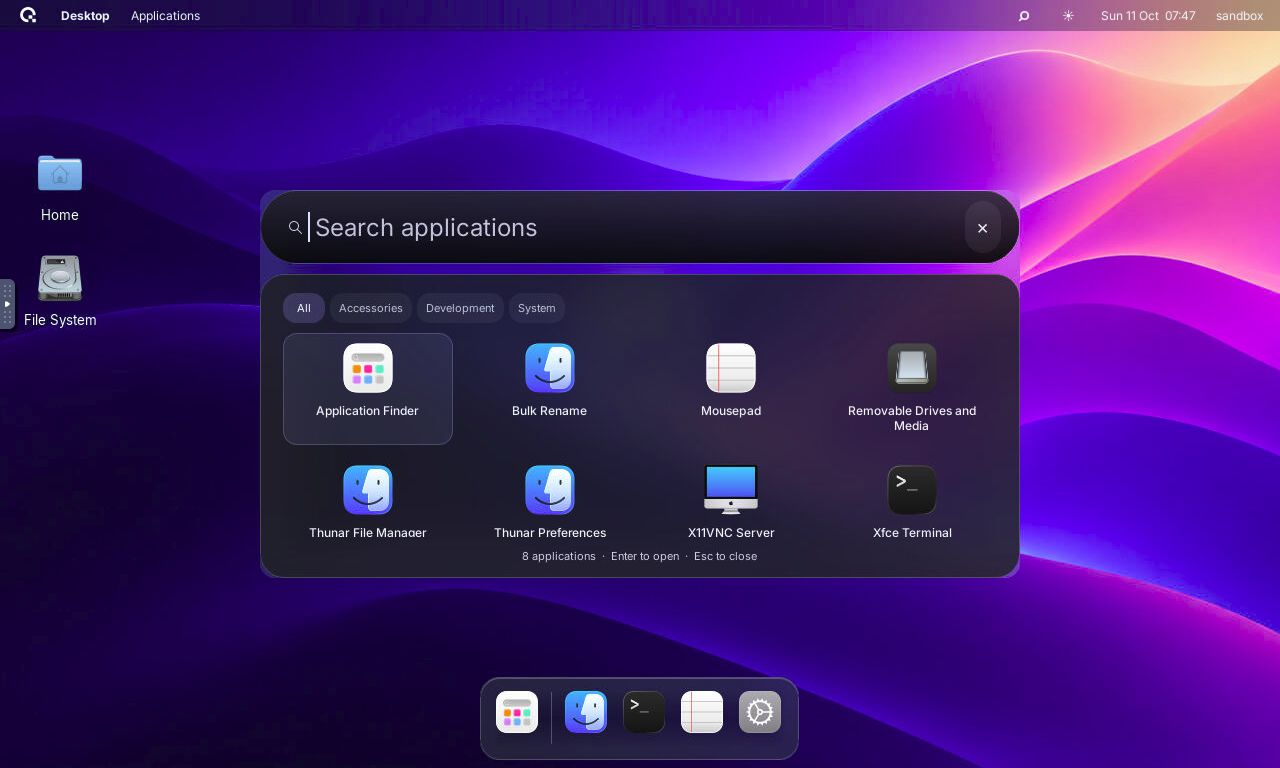
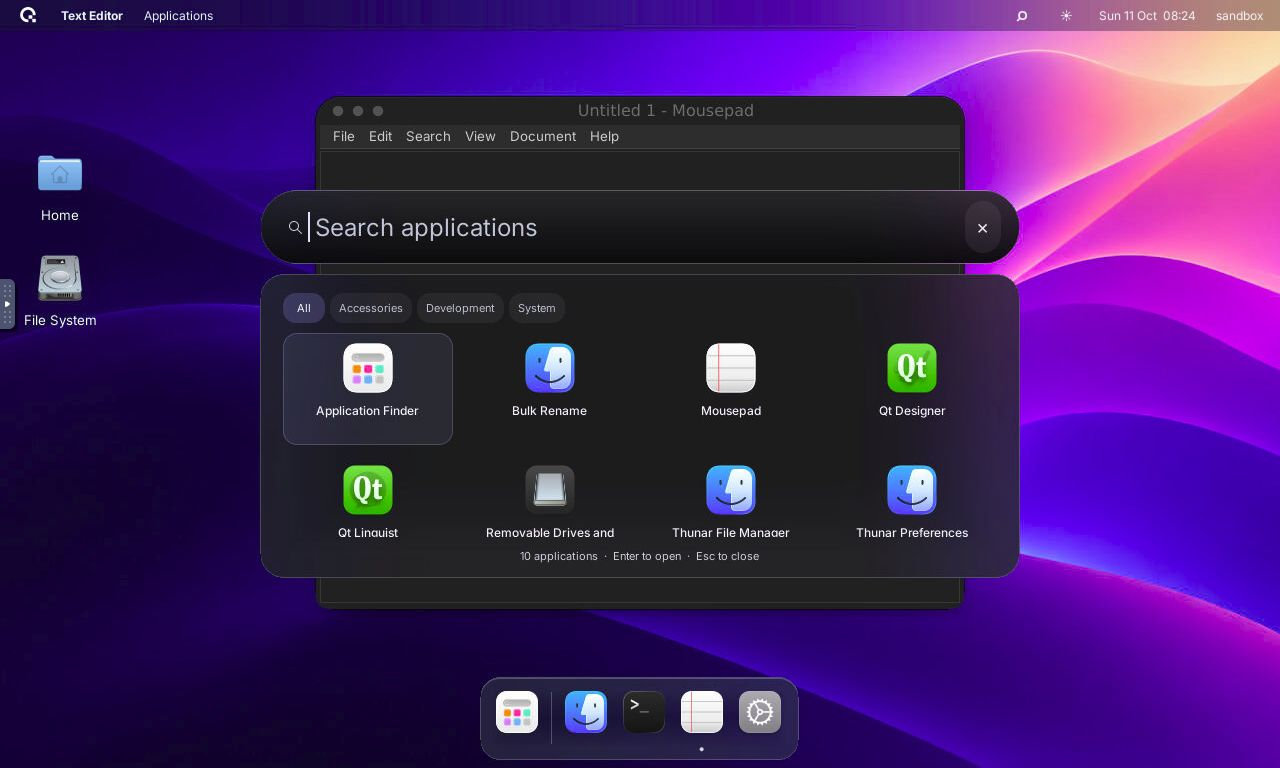
Round native windows and scope GTK glass to visible menu content

diff --git a/docs/visual-comparison.html b/docs/visual-comparison.html
@@ -5,7 +5,7 @@ body{margin:0;padding:32px;background:#151517;color:#eee;font:16px system-ui,san
 </style><main>
 <h1>vAntah alongside macOS 27</h1><p>Official Apple screenshots on the left; the running Linux implementation on the right. Apple artwork loads from its original URL. Comparisons use different applications and wallpaper, so this is a visual review, not a pixel-diff score or an exact-match certification.</p>
 <h2>Search and launcher</h2><div class="pair"><figure><img src="https://www.apple.com/v/os/g/images/macos/highlights/siri__mfeve50fboii_large.jpg" alt="Apple macOS 27 screenshot showing a dark Siri search capsule"><figcaption><a href="https://www.apple.com/os/macos/">Apple macOS 27 search reference</a><small>Dark capsule, prominent text, restrained outer edge.</small></figcaption></figure><figure><img src="screenshots/kwin-glass.jpg" alt="Updated vAntah application launcher and dock"><figcaption>vAntah after adjustment<small>Larger search text, darker gradient, larger icons and wrapped app names. Local app results remain a separate grid.</small></figcaption></figure></div>
-<h2>Dock and windows</h2><div class="pair"><figure><img src="https://images.apple.com/v/os/g/images/macos/siri/siri_app__bf82k75xd8z6_large.jpg" alt="Apple macOS 27 Siri app with traffic-light controls and dock"><figcaption>Apple desktop reference<small>Compact controls, rounded windows and a low translucent dock.</small></figcaption></figure><figure><img src="screenshots/window-light-matched.jpg" alt="vAntah window showing the revised traffic-light controls and dock"><figcaption>vAntah native GTK window<small>28px title strip, 12px control targets, neutral dock material and reduced rim refraction. GTK retains its application menus and client layout.</small></figcaption></figure></div>
+<h2>Dock and windows</h2><div class="pair"><figure><img src="https://images.apple.com/v/os/g/images/macos/siri/siri_app__bf82k75xd8z6_large.jpg" alt="Apple macOS 27 Siri app with traffic-light controls and dock"><figcaption>Apple desktop reference<small>Compact controls, rounded windows and a low translucent dock.</small></figcaption></figure><figure><img src="screenshots/window-light-matched.jpg" alt="vAntah window showing the revised traffic-light controls and dock"><figcaption>vAntah native GTK window<small>28px title strip, 12px control targets, neutral dock material and reduced rim refraction. All four rendered corners are rounded; native GTK menus use compact rows and shaped backdrop blur.</small></figcaption></figure></div>
 <h2>Menus and controls</h2><div class="pair"><figure><img src="https://developer.apple.com/design/resources/images/thumbnails/Thumbnail-UIKit-macOS27_2x.png" alt="Official macOS 27 UI kit preview with grouped controls"><figcaption><a href="https://developer.apple.com/design/resources/">Apple component-kit preview</a><small>This preview shows grouped controls, not an open menu. Exact menu measurements are unavailable from this reference.</small></figcaption></figure><figure><img src="screenshots/menu-matched.jpg" alt="vAntah compact desktop menu"><figcaption>vAntah menu<small>Compact rows, neutral glass, rounded selection and blue hover highlight.</small></figcaption></figure></div>
-<h2>Comparison findings</h2><table><thead><tr><th>Surface</th><th>Previous difference</th><th>Applied change</th></tr></thead><tbody><tr><td>Launcher</td><td>Small query, cramped truncated labels</td><td>24px query, 56px icons, two-line names, fewer columns</td></tr><tr><td>Dock</td><td>Strong colored rim and hover box</td><td>Neutral tint, 20px corners, no hover tile, 8px bottom gap</td></tr><tr><td>Menus</td><td>44px rows and purple highlight</td><td>Compact 26px minimum rows and blue selection</td></tr><tr><td>Windows</td><td>32px title strip, 16px controls, wide spacing</td><td>28px strip, 12px controls, 8px spacing</td></tr><tr><td>Glass</td><td>Bright edge and exaggerated fringing</td><td>Edge lighting off, 6px refraction edge, neutral saturation, no color fringing</td></tr></tbody></table>
-<details><summary>Previous launcher for comparison</summary><img src="screenshots/before-matching.jpg" alt="vAntah before these adjustments"></details><p>Remaining differences: Linux app layouts, client bottom corners, Inter typography, open-source icon artwork, software-rendered motion, and X11 glass optics. No equivalent Apple app/grid/menu capture at the same resolution was available to prove exact matching. See <a href="apple-design-references.md">source references</a> and <a href="appearance-testing.md">test notes</a>.</p></main></html>
+<h2>Comparison findings</h2><table><thead><tr><th>Surface</th><th>Previous difference</th><th>Applied change</th></tr></thead><tbody><tr><td>Launcher</td><td>Small query, cramped truncated labels</td><td>24px query, 56px icons, two-line names, fewer columns</td></tr><tr><td>Dock</td><td>Strong colored rim and hover box</td><td>Neutral tint, 20px corners, no hover tile, 8px bottom gap</td></tr><tr><td>Menus</td><td>44px rows and purple highlight</td><td>Compact rows, blue selection, native GTK menu overlay and blur excluding shadow margins</td></tr><tr><td>Windows</td><td>32px title strip, 16px controls, wide spacing</td><td>28px strip, 12px controls, 8px spacing and 16px compositor corner clipping</td></tr><tr><td>Glass</td><td>Bright edge and exaggerated fringing</td><td>Edge lighting off, 8px refraction edge, stronger live blur, neutral saturation and no color fringing</td></tr></tbody></table>
+<details><summary>Previous launcher for comparison</summary><img src="screenshots/before-matching.jpg" alt="vAntah before these adjustments"></details><p>Remaining differences: Linux app layouts and menu placement, Inter typography, open-source icon artwork, software-rendered motion, and X11 glass optics. No equivalent Apple app/grid/menu capture at the same resolution was available to prove exact matching. See <a href="apple-design-references.md">source references</a> and <a href="appearance-testing.md">test notes</a>.</p></main></html>

diff --git a/gtk-menus.css b/gtk-menus.css
@@ -1,0 +1,36 @@
+/* vAntah GTK 3 application menus. Installed as a theme overlay, not user config. */
+menu, .background.popup > menu, .background.csd > menu {
+  border-radius: 10px;
+  padding: 5px;
+  border: 1px solid alpha(@theme_fg_color, 0.15);
+  background-color: alpha(@theme_bg_color, 0.86);
+  background-image: none;
+  box-shadow: 0 8px 24px alpha(black, 0.22);
+  font-family: "Inter", "DejaVu Sans", sans-serif;
+  font-size: 13px;
+}
+menu menuitem {
+  min-height: 22px;
+  padding: 2px 8px;
+  border-radius: 5px;
+  border: none;
+  box-shadow: none;
+  background-image: none;
+}
+menu menuitem:hover, menu menuitem:selected, menu menuitem:active {
+  background-image: none;
+  box-shadow: none;
+  background-color: #2864dc;
+  color: white;
+}
+menu menuitem:disabled { color: alpha(@theme_fg_color, 0.45); }
+menu separator { min-height: 1px; margin: 4px 7px; background-color: alpha(@theme_fg_color, 0.14); }
+menu menuitem accelerator { color: alpha(@theme_fg_color, 0.6); margin-left: 28px; }
+menu menuitem:hover accelerator { color: alpha(white, 0.85); }
+menubar { background-image: none; background-color: @theme_bg_color; padding: 0 6px; }
+menubar > menuitem { min-height: 22px; padding: 1px 7px; border-radius: 5px; }
+menubar > menuitem:hover { background-color: alpha(@theme_fg_color, 0.10); color: @theme_fg_color; }
+
+/* Keep GTK popup shadow extents transparent; only the menu paints material. */
+window.popup.background { background-color: transparent; background-image: none; }
+.csd.popup decoration { background-color: transparent; background-image: none; }

diff --git a/shell.css b/shell.css
@@ -147,8 +147,8 @@ window#launcher-window.light, window#panel-window.light { color: #252735; }
 .kwin .dock { background: rgba(36,36,38,0.28); }
 .kwin .menu-bar { background: rgba(28,28,30,0.28); }
 .kwin .launcher-search { background: linear-gradient(to bottom, rgba(36,36,38,0.78), rgba(5,5,7,0.94)); }
-.kwin .app-grid-card { background: rgba(32,32,34,0.78); }
-.kwin .menu-card { background: rgba(38,38,40,0.86); }
+.kwin .app-grid-card { background: rgba(28,28,30,0.64); }
+.kwin .menu-card { background: rgba(34,34,36,0.72); }
 .kwin.light .dock { background: rgba(242,246,255,0.18); }
 .kwin.light .menu-bar { background: rgba(242,246,255,0.46); }
 .kwin.light .launcher-search, .kwin.light .app-grid-card, .kwin.light .menu-card {

diff --git a/gtk_menu_glass.py b/gtk_menu_glass.py
@@ -1,0 +1,88 @@
+"""Request KWin blur for GTK menu content, excluding client shadow extents."""
+import ctypes
+from gi.repository import GdkX11
+
+
+class GtkMenuGlass:
+    def __init__(self, display, xlib, connection, rounded_region):
+        self.display, self.xlib, self.connection = display, xlib, connection
+        self.rounded_region, self.cache = rounded_region, {}
+        ulp = ctypes.POINTER(ctypes.c_ulong)
+        xlib.XDefaultRootWindow.argtypes = [ctypes.c_void_p]
+        xlib.XDefaultRootWindow.restype = ctypes.c_ulong
+        self.root = xlib.XDefaultRootWindow(connection)
+        xlib.XQueryTree.argtypes = [ctypes.c_void_p, ctypes.c_ulong, ulp, ulp,
+                                   ctypes.POINTER(ulp), ctypes.POINTER(ctypes.c_uint)]
+        xlib.XGetWindowProperty.argtypes = [ctypes.c_void_p, ctypes.c_ulong, ctypes.c_ulong,
+            ctypes.c_long, ctypes.c_long, ctypes.c_int, ctypes.c_ulong, ulp,
+            ctypes.POINTER(ctypes.c_int), ulp, ulp, ctypes.POINTER(ctypes.c_void_p)]
+        xlib.XFree.argtypes = [ctypes.c_void_p]
+        xlib.XSetErrorHandler.argtypes = [ctypes.c_void_p]
+        xlib.XSetErrorHandler.restype = ctypes.c_void_p
+        xlib.XSync.argtypes = [ctypes.c_void_p, ctypes.c_int]
+        self.error_handler = ctypes.CFUNCTYPE(ctypes.c_int, ctypes.c_void_p,
+                                              ctypes.c_void_p)(lambda *_: 0)
+        self.atoms = {name: xlib.XInternAtom(connection, name.encode(), False) for name in (
+            '_NET_WM_WINDOW_TYPE', '_NET_WM_WINDOW_TYPE_POPUP_MENU',
+            '_NET_WM_WINDOW_TYPE_DROPDOWN_MENU', '_GTK_FRAME_EXTENTS',
+            '_KDE_NET_WM_BLUR_BEHIND_REGION')}
+
+    def property(self, xid, name):
+        actual, count, remaining = ctypes.c_ulong(), ctypes.c_ulong(), ctypes.c_ulong()
+        fmt, data = ctypes.c_int(), ctypes.c_void_p()
+        status = self.xlib.XGetWindowProperty(self.connection, xid, self.atoms[name],
+            0, 4096, False, 0, ctypes.byref(actual), ctypes.byref(fmt), ctypes.byref(count),
+            ctypes.byref(remaining), ctypes.byref(data))
+        try:
+            if status or not actual.value or fmt.value != 32:
+                return None
+            if not count.value:
+                return []
+            values = ctypes.cast(data, ctypes.POINTER(ctypes.c_ulong))
+            return [values[i] for i in range(count.value)]
+        finally:
+            if data: self.xlib.XFree(data)
+
+    def update(self):
+        previous = self.xlib.XSetErrorHandler(self.error_handler)
+        children = ctypes.POINTER(ctypes.c_ulong)()
+        root, parent, count = ctypes.c_ulong(), ctypes.c_ulong(), ctypes.c_uint()
+        alive = set()
+        try:
+            self.xlib.XQueryTree(self.connection, self.root, ctypes.byref(root),
+                ctypes.byref(parent), ctypes.byref(children), ctypes.byref(count))
+            for i in range(count.value):
+                xid = children[i]
+                kinds = self.property(xid, '_NET_WM_WINDOW_TYPE') or []
+                if not any(self.atoms[k] in kinds for k in (
+                        '_NET_WM_WINDOW_TYPE_POPUP_MENU', '_NET_WM_WINDOW_TYPE_DROPDOWN_MENU')):
+                    continue
+                extents = self.property(xid, '_GTK_FRAME_EXTENTS') or []
+                if len(extents) != 4: continue
+                window = GdkX11.X11Window.foreign_new_for_display(self.display, xid)
+                if not window or window.is_destroyed(): continue
+                _, _, width, height = window.get_geometry()
+                left, right, top, bottom = extents
+                if width <= left + right or height <= top + bottom: continue
+                alive.add(xid)
+                signature = (width, height, *extents)
+                if self.cache.get(xid) == signature: continue
+                # Respect a blur region supplied by the application itself.
+                if xid not in self.cache and self.property(xid, '_KDE_NET_WM_BLUR_BEHIND_REGION') is not None:
+                    continue
+                region = self.rounded_region(left, top, width-left-right, height-top-bottom, 10)
+                values = []
+                for j in range(region.num_rectangles()):
+                    r = region.get_rectangle(j)
+                    values.extend((r.x, r.y, r.width, r.height))
+                data = (ctypes.c_ulong * len(values))(*values)
+                self.xlib.XChangeProperty(self.connection, xid,
+                    self.atoms['_KDE_NET_WM_BLUR_BEHIND_REGION'], 6, 32, 0,
+                    ctypes.cast(data, ctypes.POINTER(ctypes.c_ubyte)), len(values))
+                self.cache[xid] = signature
+            self.cache = {key: value for key, value in self.cache.items() if key in alive}
+        finally:
+            if children: self.xlib.XFree(children)
+            self.xlib.XSync(self.connection, False)
+            self.xlib.XSetErrorHandler(previous)
+        return True

diff --git a/sandbox/test-gtk-menu-glass.py b/sandbox/test-gtk-menu-glass.py
@@ -1,0 +1,77 @@
+"""Exercise real X11 menu properties without mapping or displaying test windows."""
+import ctypes
+from pathlib import Path
+import sys
+import unittest
+import cairo
+import gi
+gi.require_version('GdkX11', '3.0')
+gi.require_version('Gdk', '3.0')
+from gi.repository import Gdk
+sys.path.insert(0, str(Path(__file__).resolve().parents[1]))
+from gtk_menu_glass import GtkMenuGlass
+
+
+class MenuGlassTests(unittest.TestCase):
+    def setUp(self):
+        self.x = ctypes.CDLL('libX11.so.6')
+        self.x.XOpenDisplay.argtypes = [ctypes.c_char_p]
+        self.x.XOpenDisplay.restype = ctypes.c_void_p
+        self.x.XInternAtom.argtypes = [ctypes.c_void_p, ctypes.c_char_p, ctypes.c_int]
+        self.x.XInternAtom.restype = ctypes.c_ulong
+        self.x.XChangeProperty.argtypes = [ctypes.c_void_p, ctypes.c_ulong,
+            ctypes.c_ulong, ctypes.c_ulong, ctypes.c_int, ctypes.c_int,
+            ctypes.POINTER(ctypes.c_ubyte), ctypes.c_int]
+        self.connection = self.x.XOpenDisplay(None)
+        self.assertTrue(self.connection)
+        self.helper = GtkMenuGlass(Gdk.Display.get_default(), self.x, self.connection,
+            lambda x, y, w, h, radius: cairo.Region(cairo.RectangleInt(x, y, w, h)))
+        self.x.XCreateSimpleWindow.argtypes = [ctypes.c_void_p, ctypes.c_ulong,
+            ctypes.c_int, ctypes.c_int, ctypes.c_uint, ctypes.c_uint,
+            ctypes.c_uint, ctypes.c_ulong, ctypes.c_ulong]
+        self.x.XCreateSimpleWindow.restype = ctypes.c_ulong
+        self.x.XDestroyWindow.argtypes = [ctypes.c_void_p, ctypes.c_ulong]
+        self.x.XCloseDisplay.argtypes = [ctypes.c_void_p]
+        self.window = self.x.XCreateSimpleWindow(self.connection, self.helper.root,
+                                                0, 0, 300, 200, 0, 0, 0)
+        self.set_property('_NET_WM_WINDOW_TYPE',
+                          [self.helper.atoms['_NET_WM_WINDOW_TYPE_POPUP_MENU']], 4)
+        self.set_property('_GTK_FRAME_EXTENTS', [40, 40, 30, 50])
+
+    def tearDown(self):
+        if self.window: self.x.XDestroyWindow(self.connection, self.window)
+        self.x.XCloseDisplay(self.connection)
+
+    def set_property(self, name, values, kind=6):
+        data = (ctypes.c_ulong * len(values))(*values)
+        self.x.XChangeProperty(self.connection, self.window, self.helper.atoms[name],
+            kind, 32, 0, ctypes.cast(data, ctypes.POINTER(ctypes.c_ubyte)), len(values))
+        self.x.XSync(self.connection, False)
+
+    def test_shadow_extents_are_excluded(self):
+        self.helper.update()
+        self.assertEqual(self.helper.property(self.window, '_KDE_NET_WM_BLUR_BEHIND_REGION'),
+                         [40, 30, 220, 120])
+
+    def test_application_blur_region_is_preserved(self):
+        self.set_property('_KDE_NET_WM_BLUR_BEHIND_REGION', [50, 40, 100, 80])
+        self.helper.update()
+        self.assertEqual(self.helper.property(self.window, '_KDE_NET_WM_BLUR_BEHIND_REGION'),
+                         [50, 40, 100, 80])
+
+    def test_empty_application_region_is_preserved(self):
+        self.set_property('_KDE_NET_WM_BLUR_BEHIND_REGION', [])
+        self.helper.update()
+        self.assertEqual(self.helper.property(self.window, '_KDE_NET_WM_BLUR_BEHIND_REGION'), [])
+
+    def test_destroyed_menu_is_removed_without_badwindow_exit(self):
+        self.helper.update()
+        closed = self.window
+        self.x.XDestroyWindow(self.connection, closed)
+        self.window = None
+        self.x.XSync(self.connection, False)
+        self.helper.update()
+        self.assertNotIn(closed, self.helper.cache)
+
+
+if __name__ == '__main__': unittest.main()

diff --git a/sandbox/install-menu-overlay.py b/sandbox/install-menu-overlay.py
@@ -1,0 +1,28 @@
+"""Add vAntah's GTK menu overlay while retaining existing user CSS."""
+import os
+from pathlib import Path
+import re
+import sys
+
+
+def install(config, source):
+    target = config / 'vantah'
+    target.mkdir(parents=True, exist_ok=True)
+    (target / 'gtk-menus.css').write_bytes(source.read_bytes())
+    gtk = config / 'gtk-3.0'
+    gtk.mkdir(parents=True, exist_ok=True)
+    path = gtk / 'gtk.css'
+    old = path.read_text() if path.exists() else ''
+    marker = '/* vAntah application menus */\n@import url("../vantah/gtk-menus.css");\n/* end vAntah application menus */'
+    pattern = r'/\* vAntah application menus \*/.*?/\* end vAntah application menus \*/'
+    if re.search(pattern, old, re.S):
+        new = re.sub(pattern, lambda _: marker, old, flags=re.S)
+    else:
+        new = old + ('\n' if old and not old.endswith('\n') else '') + marker + '\n'
+    if new != old:
+        path.write_text(new)
+
+
+if __name__ == '__main__':
+    config = Path(sys.argv[1]) if len(sys.argv) > 1 else Path(os.environ.get('XDG_CONFIG_HOME', str(Path.home() / '.config')))
+    install(config, Path(__file__).resolve().parents[1] / 'gtk-menus.css')

diff --git a/shell.py b/shell.py
@@ -18,6 +18,7 @@ gi.require_version('GdkX11', '3.0')
 gi.require_version('Wnck', '3.0')
 from gi.repository import Gdk, GdkPixbuf, GdkX11, Gio, GLib, Gtk, Pango, Wnck
 import cairo
+from gtk_menu_glass import GtkMenuGlass
 
 ROOT = Path(__file__).resolve().parent
 PID_FILE = Path(f'/tmp/alpine-shell-{os.getuid()}.pid')
@@ -65,6 +66,11 @@ class Shell:
                 ctypes.POINTER(ctypes.c_ubyte), ctypes.c_int]
             self.glass_xlib.XFlush.argtypes = [ctypes.c_void_p]
             self.glass_connection = self.glass_xlib.XOpenDisplay(None)
+        self.gtk_menu_glass = None
+        if self.glass_xlib and self.glass_connection:
+            self.gtk_menu_glass = GtkMenuGlass(self.display, self.glass_xlib,
+                                             self.glass_connection, self.rounded_region)
+            GLib.timeout_add(150, self.gtk_menu_glass.update)
         self.launcher = None
         self.panels = {}
         self.category = 'All'

diff --git a/docs/appearance-testing.md b/docs/appearance-testing.md
@@ -69,3 +69,31 @@ labels, menu spacing, live glass, and window controls. Python syntax, shell synt
 and the five installer regressions passed. Rams again returned an exhausted-credit
 error. Exact native app layouts, bottom client corners, Apple typography/icons and
 optics remain different; these changes do not certify an exact macOS reproduction.
+
+## Native corners and menu glass follow-up
+
+Built and installed pinned KDE-Rounded-Corners against the running KWin X11
+6.5.6. D-Bus reports both `kwin4_effect_shapecorners` and `glass_x11` loaded;
+the corner shaders report successful loading. Visually checked rounded opaque
+GTK bottom corners, maximized square edges, restored rounded edges, and light
+and dark appearance. Typing `e` in Mousepad entered text normally.
+
+GTK menus now request blur only within their visible content bounds. The prior
+large blurred surround came from including `_GTK_FRAME_EXTENTS` shadow margins.
+Four tests against the real X server pass: excluding shadow extents, preserving
+existing nonempty and empty app blur regions, and removing a closed menu from
+tracking. Five installer regressions, Python syntax, shell syntax, CSS parsing,
+and preservation/idempotence of the user CSS import pass. Existing CSS is kept;
+a marked import loads the shared menu overlay at user-style priority.
+
+The upgrade installer completed and rebooted the existing sandbox. Docker's VM
+needed a restart after a filesystem I/O error during dependency installation;
+both previously running Alpine containers were restored. The clean multistage
+image is still untested. Rams `quick_review` was requested with `via: rules` but
+remains unavailable because its review credits are exhausted. The screenshots
+record actual results; exact Apple layout, menu placement, typography, icon art,
+selection rendering and optical equivalence remain unproven.
+
+The final launcher check also verified explicit visible-region blur with an
+empty force-blur whitelist, and a shell-class exclusion in the corner effect.
+This prevents filling the gap between the search capsule and application grid.

diff --git a/docs/kwin-glass.md b/docs/kwin-glass.md
@@ -33,3 +33,25 @@ The existing Alpine sandbox was built, booted, and visually checked with
 `glass_x11` loaded. The revised multistage Docker build has not yet been
 tested from a clean image. Building KWin requires several GB of free disk
 space and takes considerably longer than installing the shell itself.
+
+## Native window corners and GTK menus
+
+The compositor also loads [KDE-Rounded-Corners](https://github.com/matinlotfali/KDE-Rounded-Corners),
+pinned to `c1178d94ff2ec0db8d4d9a9782a3eb06aec13ce6` and built for KWin X11.
+It rounds the rendered window texture, including opaque GTK client content.
+The profile uses a 16px squircle radius, native decoration shadows, no added
+outlines, and disables rounding for maximized, tiled and fullscreen windows.
+The shell class is excluded so its separate launcher shapes stay intact.
+This avoids relying on X server masks that KWin's composited scene can bypass.
+The effect is separately licensed GPL-3.0; its license and revision are installed
+in `/usr/share/doc/vantah-corners/`.
+
+`gtk-menus.css` is installed as an overlay in the six MacTahoe GTK 3 variants.
+The installer also appends a marked import to user GTK CSS, retaining existing
+rules, loading the shared menu rules at GTK user-style priority.
+Native application menus use compact rows, rounded corners and blue selection.
+`gtk_menu_glass.py` requests a shaped live blur region inside GTK's
+`_GTK_FRAME_EXTENTS`, leaving the invisible client shadow margins transparent.
+An application's existing blur property takes precedence. Whole-window forced
+blur uses an empty whitelist and is disabled to prevent the large extra surround. The shell's own
+launcher, dock and menus continue to declare their own shaped blur regions.

diff --git a/README.md b/README.md
@@ -14,6 +14,10 @@ adjustments and remaining fidelity differences.
 
 ![KWin Glass launcher and dock](docs/screenshots/kwin-glass.jpg)
 
+Native GTK menu and compositor-rounded window:
+
+![Native GTK menu and rounded window](docs/screenshots/gtk-menus.jpg)
+
 Earlier v0.1.1 Docker demo:
 
 ![Fresh dark desktop](docs/screenshots/fresh-demo.jpg)
@@ -81,6 +85,9 @@ A custom native desktop shell for the Alpine Linux sandbox. The shell replaces
 Xfce's panels with a glass menu bar, application search, and an application dock.
 GTK 3 draws the UI and libwnck controls real windows. KWin X11 6.5.6 manages
 windows; the pinned KWin Glass shader samples and refracts the live backdrop.
+A pinned KWin rounding effect clips all four rendered window corners, including
+GTK client content. GTK application menus share the compact menu styling and
+request glass inside their visible bounds, excluding transparent shadow margins.
 [Backend details and source revisions](docs/kwin-glass.md) explain the Alpine
 GLX compatibility patch and software rendering. Building KWin requires several
 GB of free disk space and a substantial first build.
